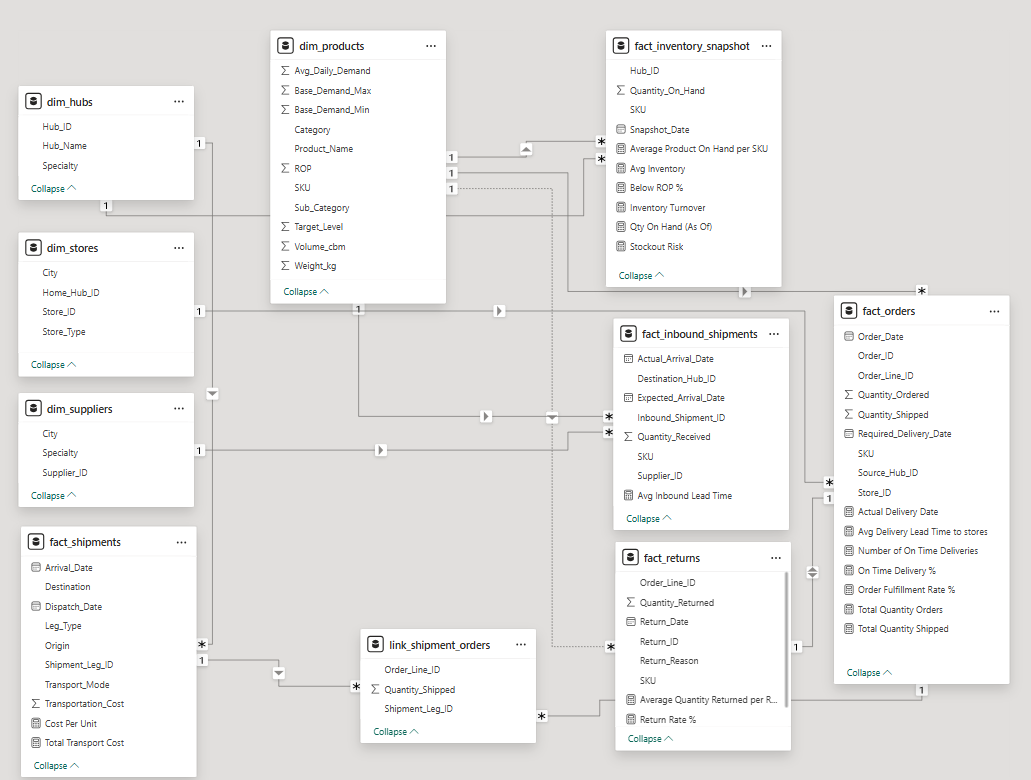
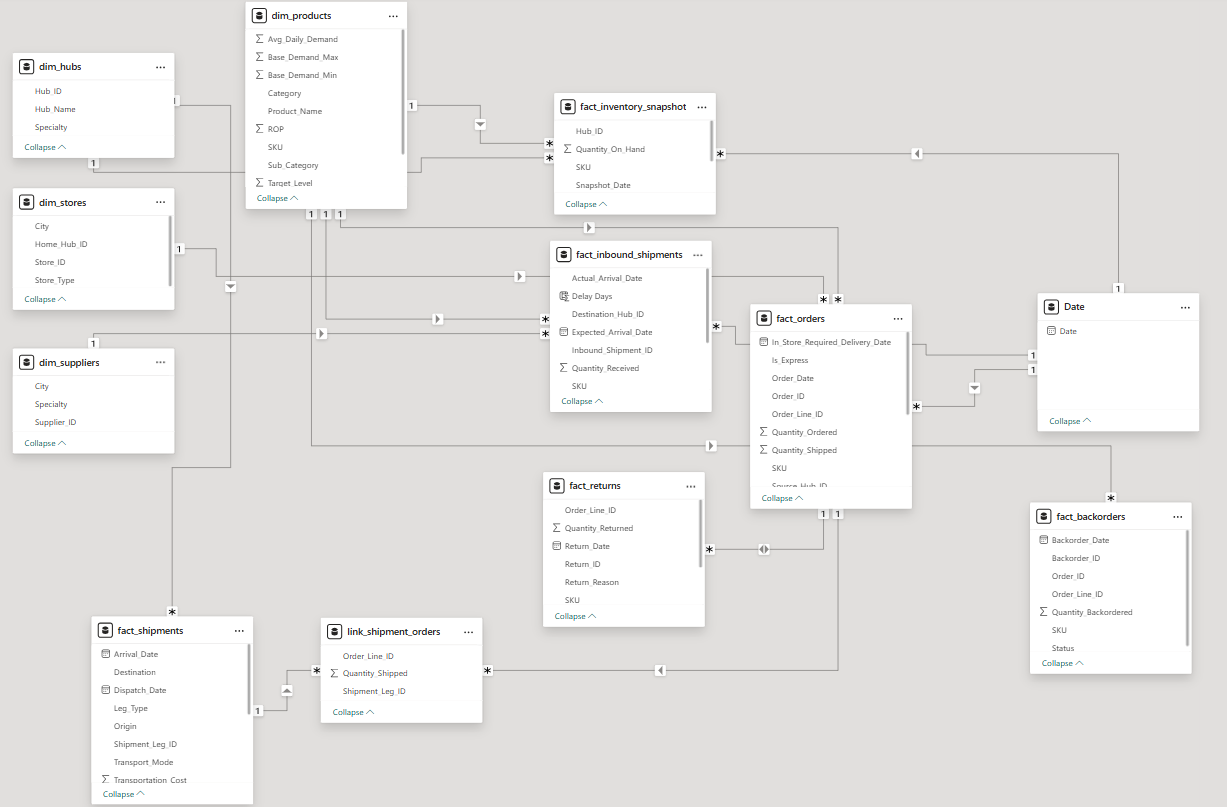
updated project-2

diff --git a/project2.html b/project2.html
@@ -237,12 +237,18 @@
                             <ul>
                                 <li>
                                     20 specialized suppliers mapped to key manufacturing clusters
+                                    <ul>
+                                        <li>Tiruppur (Cotton Apparel)</li>
+                                        <li>Kanpur (Leather Goods)</li>
+                                        <li>Jaipur (Jewellery)</li>
+                                    </ul>
                                 </li>
                                 <li>
-                                    3 regional hubs: HUB-DEL (Apparel), HUB-BOM (Footwear), HUB-BLR (Accessories)
+                                    3 regional hubs each specializing in a product category: HUB-DEL (Apparel), HUB-BOM
+                                    (Footwear), HUB-BLR (Accessories)
                                 </li>
                                 <li>
-                                    ~100 stores (major/minor) assigned to a “home” hub
+                                    ~100 stores (major/minor) assigned to a “home” hub for fulfillment
                                 </li>
                                 <li>Suppliers mapped to key Indian manufacturing clusters (Tiruppur, Kanpur, Jaipur) by
                                     specialty</li>
@@ -261,21 +267,32 @@
                             Shipment & Transportation Logic <br>
                             The model simulates two transport tiers:<br>
                             <ul>Inter-Hub Shipments
-                                <li>Legs: Dispatch to hub cross-dock, transit 1-3 days by truck.</li>
-                                <li>Cost = ₹300 + ₹15/km + ₹8·chargeable_kg, with 1.2x multiplier for bulk inter-hub.
+                                <li>Shipments consolidated and dispatched by truck between hubs.
+                                    Transit time: calculated by distance (e.g., DEL-BOM: 1400 km, DEL-BLR: 2100 km,
+                                    BOM-BLR: 1000 km).</li>
+                                <li>Cost: ₹300 + ₹15/km + ₹8·chargeable_kg, with a 1.2x multiplier for inter-hub bulk
+                                    shipments.
                                 </li>
-                                <li>Distances for DEL-BOM, DEL-BLR, BOM-BLR are hard-coded; others are randomized.</li>
+                                <li>Truck capacity: 10,000 kg or 60 m³, minimum load threshold 30%.
+                                    Express shipments bypass minimum load threshold.</li>
                             </ul>
                             <ul>Final-Mile Shipments
                                 <li>Direct store shipments: local pick if all lines from same hub or cross-docked
                                     consolidation.</li>
-                                <li>Delivery lead time = 1 day, distance 20-120 km by courier.</li>
+                                <li>Delivery lead time: 1-2 days for distances ≤100 km, up to 2 days for longer
+                                    distances.</li>
                                 <li>Cost uses the same cost function without the inter-hub multiplier.</li>
                             </ul>
                         </li>
                         <li>
-                            Returns are simulated with a 3-6% chance per line, random quantity, and category-based
-                            reason probabilities.
+                            <ul>
+                                <li> Returns are simulated with a 3-6% chance per line, random quantity, and
+                                    category-based
+                                    reason probabilities.</li>
+                                <li>Backorders:
+                                    Unfulfilled order quantities are tracked as backorders, with status and date.</li>
+                            </ul>
+
                         </li>
                     </ul>
                 </div>
@@ -301,6 +318,7 @@
                                 <li>fact_inventory_snapshot.csv</li>
                                 <li>fact_returns.csv</li>
                                 <li>fact_inbound_shipments.csv</li>
+                                <li>fact_backorders.csv</li>
                             </ul>
 
                         </li>
